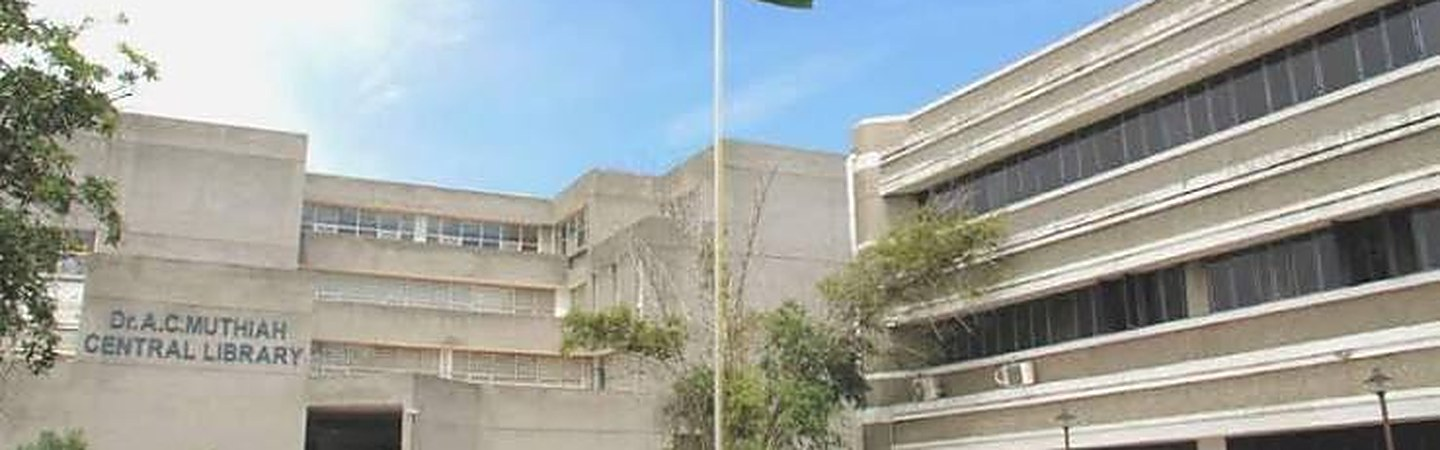
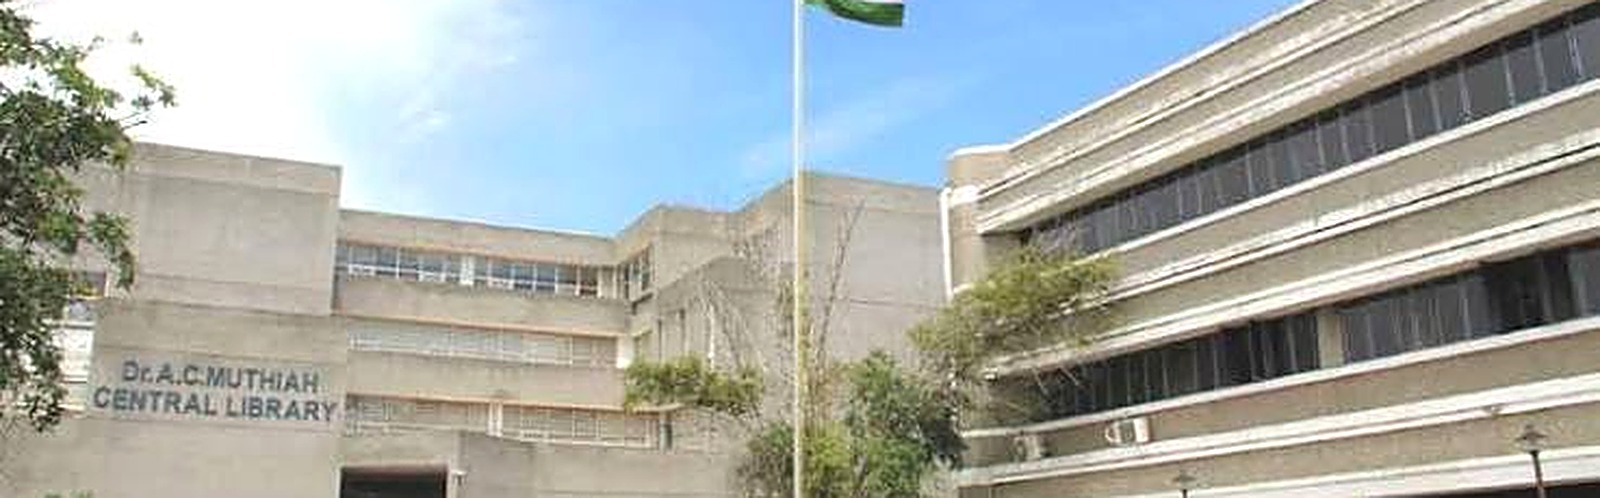
Stop burying the campus photos under their own captions
The education cards laid the school name over the photo, which needed a scrim
at 0.9 alpha to keep the type legible — and that scrim buried the building it
sat on. The Northeastern sign was effectively invisible. You cannot have both
a readable overlay and a visible photo in the same pixels.

Photo now gets the full band with nothing on top of it, and the details sit
below on the card surface, where they inherit the theme's validated contrast
instead of needing their own.

Also re-rendered both bands: two-step upscale rather than one big jump from
the 738px originals, plus a sharpening pass, so the lettering on the
Northeastern sign and the library facade actually resolve.

diff --git a/components/EducationCard.tsx b/components/EducationCard.tsx
@@ -1,82 +1,68 @@
 import type { Education } from "@/lib/content";
 
 /**
- * Wide campus banner card.
+ * Campus card: photo band above, details below.
  *
- * The school name sits *on* the photo, so the scrim underneath it has to carry
- * the contrast rather than the type: the gradient holds at 0.88 alpha across
- * the whole lower band where the text lives, which composites even a near-white
- * facade down to roughly #1f292e — about 15:1 against white. The scrim colour
- * is a fixed dark rather than a theme token for exactly that reason; it has to
- * work identically in light mode, where a page-coloured scrim would not.
+ * The previous version laid the school name over the photo, which forced a
+ * heavy dark scrim to keep the type legible — and that scrim buried the
+ * building it was sitting on. You cannot have both a readable overlay and a
+ * visible photo in the same pixels. Separating them gives the image the full
+ * band with nothing on top of it, and puts the text on the card surface where
+ * it inherits the theme's already-validated contrast.
+ *
+ * The band is 16:5 because that is the aspect both source photos were cropped
+ * to, so neither gets cropped again here.
  */
 export default function EducationCard({ ed }: { ed: Education }) {
+  const hue = `var(--color-${ed.hue})`;
+
   return (
-    <article
-      className="card box-hover overflow-hidden p-0"
-      style={{ ["--tile-hue" as string]: `var(--color-${ed.hue})` }}
-    >
-      <div className="relative h-56 sm:h-64 lg:h-72">
-        {ed.image ? (
-          /* eslint-disable-next-line @next/next/no-img-element */
+    <article className="card box-hover overflow-hidden p-0">
+      <span aria-hidden className="block h-1 w-full" style={{ background: hue }} />
+
+      {ed.image ? (
+        <div className="aspect-[16/5] w-full overflow-hidden border-b border-line bg-plane">
+          {/* eslint-disable-next-line @next/next/no-img-element */}
           <img
             src={ed.image}
             alt={`${ed.school} campus`}
             loading="lazy"
-            className="absolute inset-0 h-full w-full object-cover"
+            className="h-full w-full object-cover"
           />
-        ) : (
-          <div
-            aria-hidden
-            className="absolute inset-0"
-            style={{
-              background: `linear-gradient(135deg, var(--color-${ed.hue}), var(--color-violet))`,
-            }}
-          />
-        )}
-
-        <div
-          aria-hidden
-          className="absolute inset-0"
-          style={{
-            background:
-              "linear-gradient(to top, rgba(2,14,20,0.96) 0%, rgba(2,14,20,0.9) 62%, rgba(2,14,20,0.5) 84%, rgba(2,14,20,0.14) 100%)",
-          }}
-        />
-
-        {/* hue hairline along the top, so the two schools read apart */}
-        <span
-          aria-hidden
-          className="absolute inset-x-0 top-0 h-1"
-          style={{ background: `var(--color-${ed.hue})` }}
-        />
-
-        {/* Period badges out of the text flow — wrapped inline it pushed the
-            school name up out of the high-alpha part of the scrim on narrow
-            screens, onto the bright facade behind it. */}
-        <span className="absolute top-4 right-4 rounded-full bg-accent-fill px-3.5 py-1.5 text-xs font-semibold text-on-fill shadow-lg sm:top-6 sm:right-6">
-          {ed.period}
-        </span>
-
-        <div className="absolute inset-x-0 bottom-0 p-5 sm:p-7">
-          <h2 className="text-balance text-2xl leading-tight font-bold tracking-tight text-white sm:text-3xl">
-            {ed.school}
-          </h2>
-          {ed.college && (
-            <p className="mt-1 text-sm font-medium text-white/80">{ed.college}</p>
-          )}
-          <p className="mt-1.5 font-medium text-white/90">{ed.degree}</p>
-          <p className="mt-1 text-sm text-white/70">{ed.location}</p>
         </div>
-      </div>
-
-      {ed.detail && (
-        <div className="border-t border-line px-5 py-4 sm:px-7">
-          <span className="inline-block rounded border border-primary-line bg-primary-soft px-2 py-0.5 text-xs font-medium text-primary-text">
-            {ed.detail}
-          </span>
+      ) : (
+        <div
+          className="grid aspect-[16/5] w-full place-items-center border-b border-line"
+          style={{ background: `linear-gradient(135deg, ${hue}, var(--color-violet))` }}
+        >
+          <span className="text-3xl font-bold tracking-tight text-white">{ed.short}</span>
         </div>
       )}
+
+      <div className="p-6 sm:p-7">
+        <h2 className="text-2xl leading-tight font-bold tracking-tight sm:text-3xl">
+          {ed.school}
+        </h2>
+        {ed.college && (
+          <p className="mt-1.5 font-medium" style={{ color: hue }}>
+            {ed.college}
+          </p>
+        )}
+
+        <p className="mt-3 text-lg text-ink-2">{ed.degree}</p>
+
+        <div className="mt-4 flex flex-wrap items-center gap-2.5">
+          <span className="rounded-full bg-accent-fill px-3 py-1 text-xs font-semibold text-on-fill">
+            {ed.period}
+          </span>
+          <span className="text-sm text-ink-muted">{ed.location}</span>
+          {ed.detail && (
+            <span className="rounded border border-primary-line bg-primary-soft px-2 py-0.5 text-xs font-medium text-primary-text">
+              {ed.detail}
+            </span>
+          )}
+        </div>
+      </div>
     </article>
   );
 }
